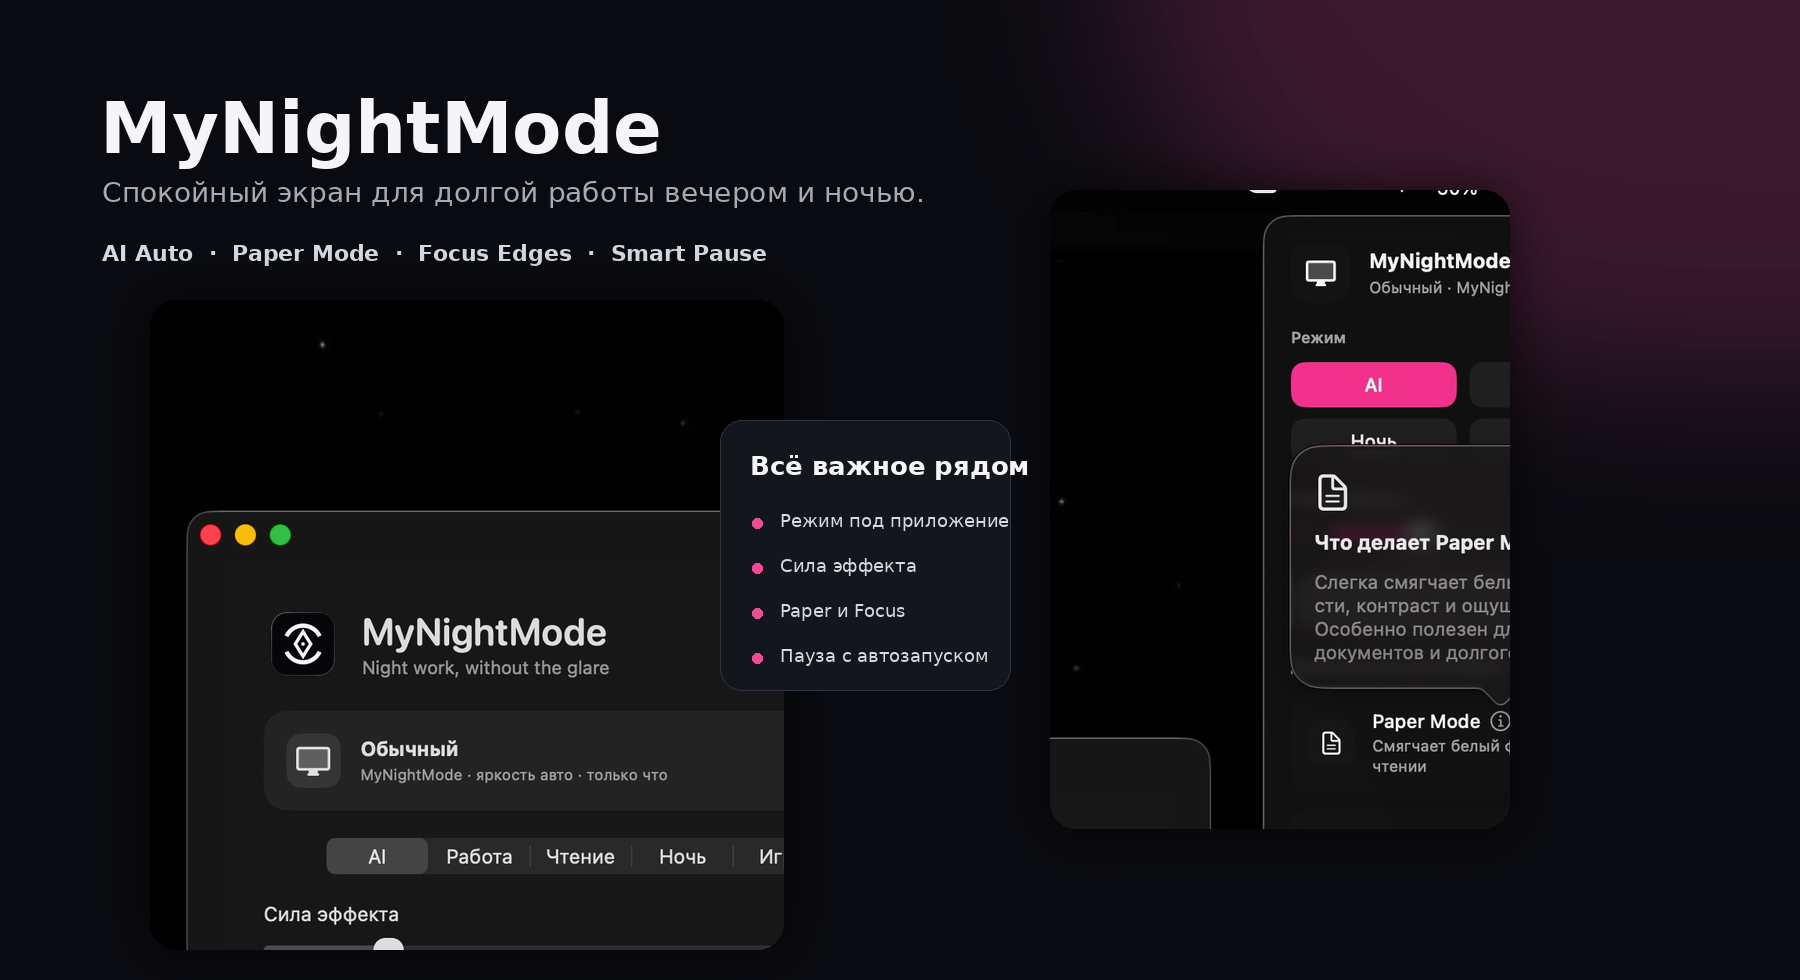
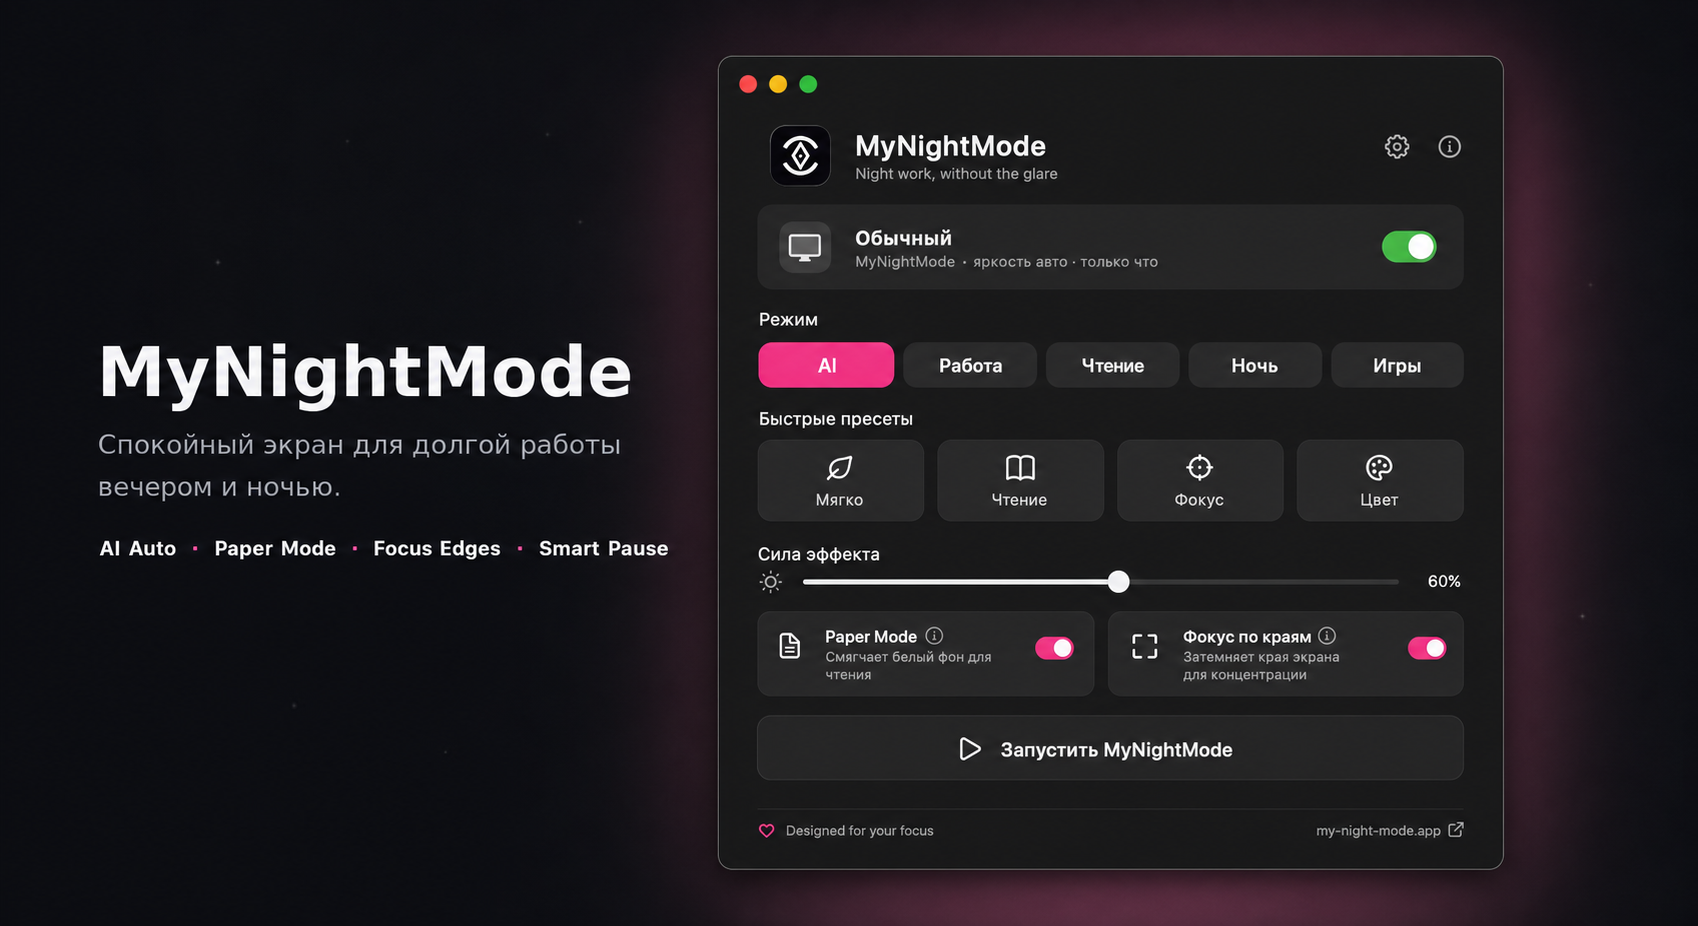
Add quick presets and refresh README visuals

diff --git a/Sources/NoxWindow/Views/ContentView.swift b/Sources/NoxWindow/Views/ContentView.swift
@@ -17,7 +17,7 @@ struct ContentView: View {
                 }
             }
         }
-        .frame(minWidth: 520, maxWidth: 520, minHeight: 590)
+        .frame(minWidth: 520, maxWidth: 520, minHeight: 690)
         .background(Color(nsColor: .windowBackgroundColor))
         .sheet(isPresented: $showOnboarding) {
             OnboardingView {
@@ -34,6 +34,7 @@ struct ContentView: View {
             header
             statusCard
             modeSection
+            quickPresetsSection
             intensityCard
 
             if model.shouldSuggestBreak {
@@ -135,7 +136,7 @@ struct ContentView: View {
         if model.isEnabled {
             return "\(model.activeAppName) · яркость \(model.brightnessText) · \(model.sessionText)"
         }
-        if let pause = model.pauseStatusText {
+        if model.pauseStatusText != nil {
             return "После паузы защита включится автоматически"
         }
         return "Включи защиту, дальше приложение работает само"
@@ -201,6 +202,40 @@ struct ContentView: View {
         }
         .padding(14)
         .background(.white.opacity(0.045), in: RoundedRectangle(cornerRadius: 14, style: .continuous))
+    }
+
+    private var quickPresetsSection: some View {
+        VStack(alignment: .leading, spacing: 9) {
+            HStack {
+                sectionTitle("Быстрые пресеты")
+                Spacer()
+                Text("1 клик")
+                    .font(.caption2)
+                    .foregroundStyle(.tertiary)
+            }
+
+            HStack(spacing: 7) {
+                ForEach(QuickPreset.allCases) { preset in
+                    Button {
+                        model.apply(preset)
+                    } label: {
+                        VStack(spacing: 5) {
+                            Image(systemName: preset.symbol)
+                                .font(.system(size: 14, weight: .medium))
+                            Text(preset.title)
+                                .font(.caption.weight(.medium))
+                                .lineLimit(1)
+                        }
+                        .frame(maxWidth: .infinity)
+                        .padding(.vertical, 9)
+                        .contentShape(Rectangle())
+                    }
+                    .buttonStyle(.plain)
+                    .background(.white.opacity(0.055), in: RoundedRectangle(cornerRadius: 10, style: .continuous))
+                    .help("Применить пресет «\(preset.settingsTitle)»")
+                }
+            }
+        }
     }
 
     private var protectionControls: some View {

diff --git a/Sources/NoxWindow/Views/SettingsView.swift b/Sources/NoxWindow/Views/SettingsView.swift
@@ -114,10 +114,9 @@ struct SettingsView: View {
     private var presetsSection: some View {
         settingsCard(title: "Быстрые пресеты", symbol: "sparkles") {
             LazyVGrid(columns: columns, spacing: 10) {
-                presetSettingsButton("Мягкий вечер", symbol: "moon.stars", mode: .auto, intensity: 0.34, paper: true, focus: false)
-                presetSettingsButton("Долгое чтение", symbol: "book", mode: .read, intensity: 0.46, paper: true, focus: false)
-                presetSettingsButton("Глубокий фокус", symbol: "scope", mode: .work, intensity: 0.52, paper: false, focus: true)
-                presetSettingsButton("Точный цвет", symbol: "paintpalette", mode: .play, intensity: 0.18, paper: false, focus: false)
+                ForEach(QuickPreset.allCases) { preset in
+                    presetSettingsButton(preset)
+                }
             }
 
             Text("Пресет меняет режим, силу эффекта, Paper Mode и фокус по краям. Любую настройку можно скорректировать вручную.")
@@ -196,24 +195,14 @@ struct SettingsView: View {
         }
     }
 
-    private func presetSettingsButton(
-        _ title: String,
-        symbol: String,
-        mode: UserMode,
-        intensity: Double,
-        paper: Bool,
-        focus: Bool
-    ) -> some View {
+    private func presetSettingsButton(_ preset: QuickPreset) -> some View {
         Button {
-            model.settings.userMode = mode
-            model.settings.intensity = intensity
-            model.settings.paperMode = paper
-            model.settings.focusEdges = focus
+            model.apply(preset, enableProtection: false)
         } label: {
             HStack(spacing: 9) {
-                Image(systemName: symbol)
+                Image(systemName: preset.symbol)
                     .frame(width: 18)
-                Text(title)
+                Text(preset.settingsTitle)
                     .lineLimit(1)
                 Spacer(minLength: 0)
             }

diff --git a/Sources/NoxWindow/Models/Models.swift b/Sources/NoxWindow/Models/Models.swift
@@ -26,6 +26,71 @@ enum UserMode: String, CaseIterable, Identifiable {
     }
 }
 
+enum QuickPreset: String, CaseIterable, Identifiable {
+    case soft
+    case reading
+    case focus
+    case color
+
+    var id: String { rawValue }
+
+    var title: String {
+        switch self {
+        case .soft: return "Мягко"
+        case .reading: return "Чтение"
+        case .focus: return "Фокус"
+        case .color: return "Цвет"
+        }
+    }
+
+    var settingsTitle: String {
+        switch self {
+        case .soft: return "Мягкий вечер"
+        case .reading: return "Долгое чтение"
+        case .focus: return "Глубокий фокус"
+        case .color: return "Точный цвет"
+        }
+    }
+
+    var symbol: String {
+        switch self {
+        case .soft: return "moon.stars"
+        case .reading: return "book"
+        case .focus: return "scope"
+        case .color: return "paintpalette"
+        }
+    }
+
+    var mode: UserMode {
+        switch self {
+        case .soft: return .auto
+        case .reading: return .read
+        case .focus: return .work
+        case .color: return .play
+        }
+    }
+
+    var intensity: Double {
+        switch self {
+        case .soft: return 0.34
+        case .reading: return 0.46
+        case .focus: return 0.52
+        case .color: return 0.18
+        }
+    }
+
+    var paperMode: Bool {
+        switch self {
+        case .soft, .reading: return true
+        case .focus, .color: return false
+        }
+    }
+
+    var focusEdges: Bool {
+        self == .focus
+    }
+}
+
 enum ActiveProfile: String {
     case whiteboard = "Доска"
     case coding = "Код"

diff --git a/Sources/NoxWindow/Views/MenuBarView.swift b/Sources/NoxWindow/Views/MenuBarView.swift
@@ -85,17 +85,10 @@ struct MenuBarView: View {
             }
 
             HStack(spacing: 7) {
-                presetButton("Мягко", symbol: "moon.stars") {
-                    applyPreset(mode: .auto, intensity: 0.34, paper: true, focus: false)
-                }
-                presetButton("Чтение", symbol: "book") {
-                    applyPreset(mode: .read, intensity: 0.46, paper: true, focus: false)
-                }
-                presetButton("Фокус", symbol: "scope") {
-                    applyPreset(mode: .work, intensity: 0.52, paper: false, focus: true)
-                }
-                presetButton("Цвет", symbol: "paintpalette") {
-                    applyPreset(mode: .play, intensity: 0.18, paper: false, focus: false)
+                ForEach(QuickPreset.allCases) { preset in
+                    presetButton(preset.title, symbol: preset.symbol) {
+                        model.apply(preset)
+                    }
                 }
             }
         }
@@ -326,14 +319,6 @@ struct MenuBarView: View {
         .buttonStyle(.plain)
         .background(.primary.opacity(0.055), in: RoundedRectangle(cornerRadius: 9, style: .continuous))
         .help("Применить готовый набор настроек")
-    }
-
-    private func applyPreset(mode: UserMode, intensity: Double, paper: Bool, focus: Bool) {
-        model.settings.userMode = mode
-        model.settings.intensity = intensity
-        model.settings.paperMode = paper
-        model.settings.focusEdges = focus
-        if !model.isEnabled { model.resumeNow() }
     }
 
     private func minutesUntilTomorrowMorning() -> Int {

diff --git a/Sources/NoxWindow/App/AppModel.swift b/Sources/NoxWindow/App/AppModel.swift
@@ -98,6 +98,16 @@ final class AppModel: ObservableObject {
         objectWillChange.send()
     }
 
+    func apply(_ preset: QuickPreset, enableProtection: Bool = true) {
+        settings.userMode = preset.mode
+        settings.intensity = preset.intensity
+        settings.paperMode = preset.paperMode
+        settings.focusEdges = preset.focusEdges
+        if enableProtection && !isEnabled {
+            resumeNow()
+        }
+    }
+
     func dismissBreakSuggestion() {
         breakDismissedForSession = true
     }

diff --git a/Sources/NoxWindow/App/NoxWindowApp.swift b/Sources/NoxWindow/App/NoxWindowApp.swift
@@ -12,7 +12,7 @@ struct MyNightModeApp: App {
                 .task { model.start() }
         }
         .windowStyle(.hiddenTitleBar)
-        .defaultSize(width: 520, height: 590)
+        .defaultSize(width: 520, height: 690)
         .commands {
             CommandGroup(replacing: .newItem) { }
             CommandMenu("MyNightMode") {

diff --git a/README.md b/README.md
@@ -43,7 +43,7 @@
 ## Smart Pause
 
 <p align="center">
-  <img src="Docs/showcase/smart-pause.gif" alt="Smart Pause timer demonstration">
+  <img src="Docs/showcase/smart-pause.png" alt="MyNightMode Smart Pause timer options">
 </p>
 
 ## Сборка
